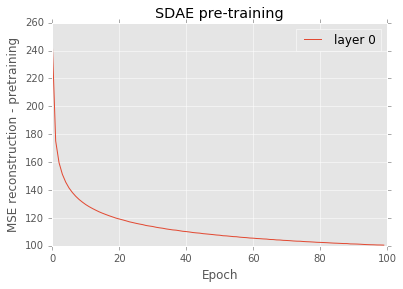
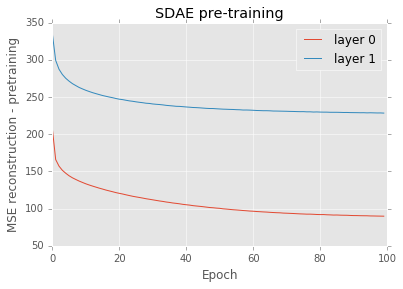
up

diff --git a/code/plot.py b/code/plot.py
@@ -9,9 +9,10 @@ import numpy as np
 
 # Test set:
 datasets = load_data('mnist.pkl.gz')
-test_set_x, test_set_y = datasets[1]
+test_set_x, _ = datasets[1]
+sdae_test, _ = datasets[2]
 SET = test_set_x.get_value(borrow=True)
-
+SSET = sdae_test.get_value(borrow=True)
 
 
 
@@ -61,15 +62,24 @@ plt.imshow(diff)
 plt.imshow(original)
 
 plt.imshow(recon)
+
+
 ''''
 SdAE
 ''''
+with open('models/sdae/SdAE_fn_losses.pkl', 'rb') as input:
+    fn = cPickle.load(input)
+
+fntr = fn["train"]
+fnt = fn["test"]
+fnv = fn["val"]
+corr = fn['corruption_levels']
 with open('models/sdae/SdAE_mnist_pre_log.pkl', 'rb') as input:
     mse_layer = cPickle.load(input)
 print len(mse_layer)
 plt.figure(figsize=(6,4))
 for i in range(len(mse_layer)):
-    plt.plot(range(len(mse_layer[i])), mse_layer[i], label='layer '+str(i))
+    plt.plot(range(len(mse_layer[i])), mse_layer[i], label='layer '+str(i)+ '(noise = )'+str(corr[i]))
 plt.legend()
 plt.xlabel('Epoch')
 plt.ylabel('MSE reconstruction - pretraining')
@@ -77,16 +87,28 @@ plt.title('SDAE pre-training')
 plt.savefig('models/dae/sdae_pre.png',bbox_inches='tight')
 
 
-with open('models/sdae/SdAE_fn_losses.pkl', 'rb') as input:
-    fn = cPickle.load(input)
+plt.plot(range(len(fntr)), fntr, label ='train')
+plt.plot(range(len(fnv)), fnv, label = 'val')
+plt.plot(range(len(fnt)), fnt, label = 'test')
 
-fnt = fn["train"]
-fnv = fn["test"]
-len(fnt)
-len(fnv)
-plt.plot(range(len(fnt)), fnt, label ='train')
-plt.plot(range(len(fnv)), fnv, label = 'test')
 plt.legend()
 plt.xlabel("Finetuning epoch")
 plt.ylabel('Error')
 plt.title('Finetuning  - logistic regression')
+
+
+""" Reconstruction """
+
+with open('models/sdae/SdAE_test_recon-pretrain.pkl', 'rb') as input:
+    Q = cPickle.load(input)
+
+z = Q[0,:].reshape((28,28))*255
+x = SSET[0,:].reshape((28,28))*255
+recon = Image.fromarray(z)
+original = Image.fromarray(x)
+np.mean(z-x)
+diff = Image.fromarray(z-x)
+plt.imshow(original)
+plt.title('original')
+plt.imshow(recon)
+plt.title('Rec')

diff --git a/code/sdAE.py b/code/sdAE.py
@@ -474,6 +474,6 @@ def test_SdAE(finetune_lr=0.1, pretraining_epochs=100,
     with open(output_folder+'/SdAE_mnist.pkl', 'wb') as output:
         cPickle.dump(sda, output, cPickle.HIGHEST_PROTOCOL)
     with open(output_folder+'/SdAE_fn_losses.pkl', 'wb') as output:
-        cPickle.dump({"train":fn, "val":fnv, "test": fnt}, output, cPickle.HIGHEST_PROTOCOL)
+        cPickle.dump({"train":fn, "val":fnv, "test": fnt, "noise":corruption_levels}, output, cPickle.HIGHEST_PROTOCOL)
 if __name__ == '__main__':
     test_SdAE()

diff --git a/code/eval_recon.py b/code/eval_recon.py
@@ -11,6 +11,7 @@ from six.moves import cPickle
 datasets = load_data('mnist.pkl.gz')
 test_set_x, test_set_y = datasets[1]
 
+""" DAE """
 with open('models/dae/dAE_mnist_corrupted_full.pkl', 'rb') as input:
     da = cPickle.load(input)
 
